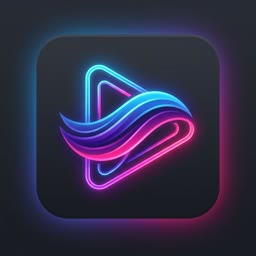
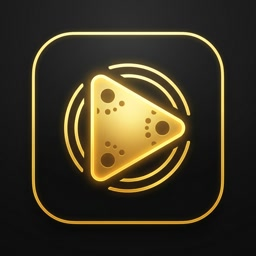
ci: add release workflow, update default addons, and fix OSD interaction logic

diff --git a/source/app.cpp b/source/app.cpp
@@ -149,11 +149,13 @@ bool App::init() {
     m_addonManager.loadConfig(CONFIG_FILE);
     m_library.load(LIB_FILE);
 
-    // If no addons installed, populate config with a selection of popular official & community addons
     if (m_addonManager.getAddons().empty()) {
         printf("Pre-populating default Stremio addons... please wait (this happens only on first run)\n");
         const std::vector<std::string> defaultAddons = {
             "https://v3-cinemeta.strem.io/manifest.json",
+            "https://torrentio.strem.fun/manifest.json",
+            "https://cyberflix.elfhosted.com/manifest.json",
+            "https://pengu.uk/manifest.json",
             "https://free.flixnest.app/manifest.json",
             "https://opensubtitles-v3.strem.io/manifest.json",
             "https://watchhub.strem.io/manifest.json",
@@ -853,6 +855,9 @@ void App::handleInputForPad(u64 kDown) {
                 if (m_addonManager.getAddons().empty()) {
                     const std::vector<std::string> defaultAddons = {
                         "https://v3-cinemeta.strem.io/manifest.json",
+                        "https://torrentio.strem.fun/manifest.json",
+                        "https://cyberflix.elfhosted.com/manifest.json",
+                        "https://pengu.uk/manifest.json",
                         "https://free.flixnest.app/manifest.json",
                         "https://opensubtitles-v3.strem.io/manifest.json",
                         "https://watchhub.strem.io/manifest.json",
@@ -1196,6 +1201,9 @@ void App::handleTouch(int x, int y) {
                     if (m_addonManager.getAddons().empty()) {
                         const std::vector<std::string> defaultAddons = {
                             "https://v3-cinemeta.strem.io/manifest.json",
+                            "https://torrentio.strem.fun/manifest.json",
+                            "https://cyberflix.elfhosted.com/manifest.json",
+                            "https://pengu.uk/manifest.json",
                             "https://free.flixnest.app/manifest.json",
                             "https://opensubtitles-v3.strem.io/manifest.json",
                             "https://watchhub.strem.io/manifest.json",
@@ -1458,7 +1466,11 @@ void App::handleTouch(int x, int y) {
                 m_showQualityList = true;
                 m_qualityListIndex = m_detailStreamIndex;
                 printf("[Touch] Quality menu opened\n");
+            } else {
+                m_osdShowTime = 0; // Tapped in button row but not on a button
             }
+        } else {
+            m_osdShowTime = 0; // Tapped completely outside scrubber and buttons
         }
         break;
     }